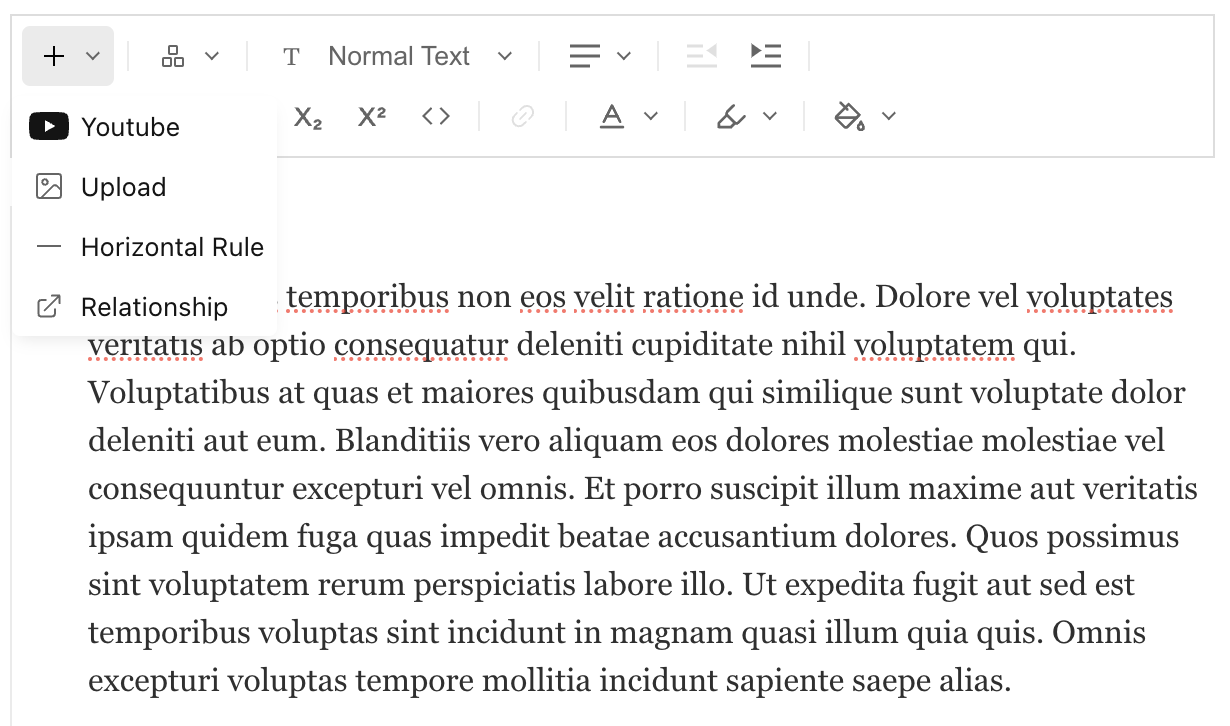
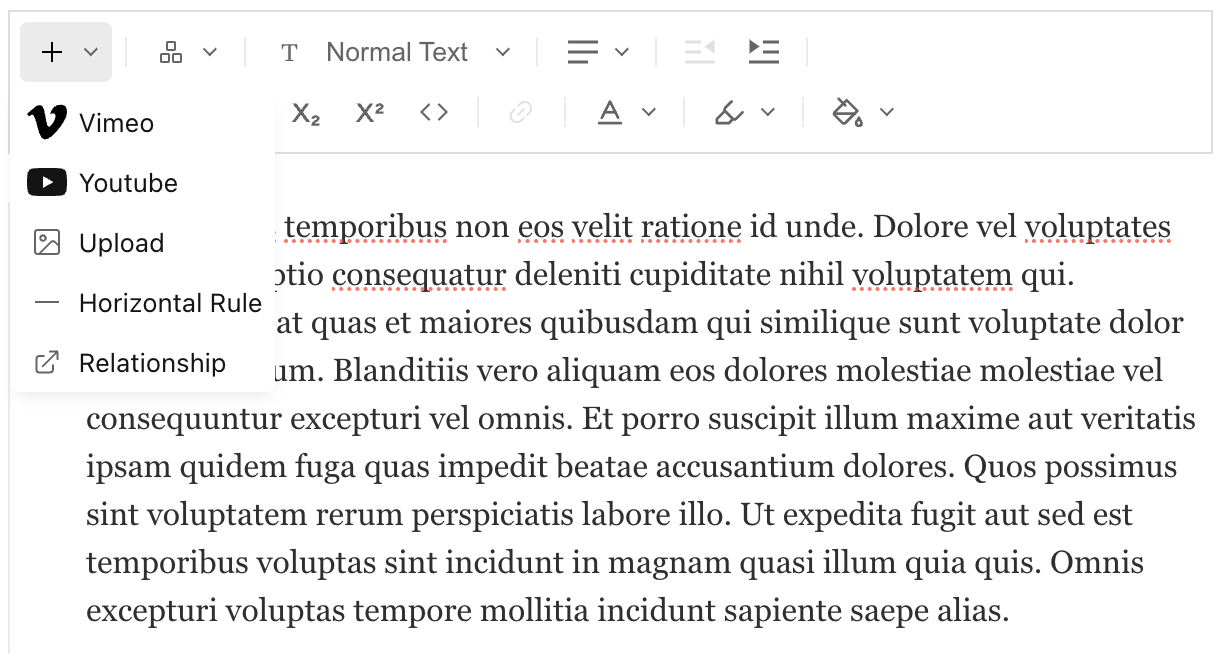
Add vimeo embed feature and simplify new embeds creation

diff --git a/src/embed/nodes/VimeoNode.ts b/src/embed/nodes/VimeoNode.ts
@@ -6,29 +6,29 @@ import type {
 	LexicalNode,
 } from '@payloadcms/richtext-lexical/lexical';
 import { JSX } from 'react';
-import YoutubeComponent from '../components/YoutubeComponent';
+import VimeoComponent from '../components/VimeoComponent';
 import { EmbedNode, SerializedEmbedNode } from './EmbedNode';
 
-export class YouTubeNode extends EmbedNode {
+export class VimeoNode extends EmbedNode {
 	static getType(): string {
-		return 'youtube';
+		return 'vimeo';
 	}
 
 	static clone(node: EmbedNode): EmbedNode {
 		return super.clone(node);
 	}
 
-	static importJSON(serializedNode: SerializedEmbedNode): YouTubeNode {
-		return super.importJSON(serializedNode) as YouTubeNode;
+	static importJSON(serializedNode: SerializedEmbedNode): VimeoNode {
+		return super.importJSON(serializedNode) as VimeoNode;
 	}
 
 	exportDOM(): DOMExportOutput {
 		const element = document.createElement('iframe');
 
 		element.style.aspectRatio = '16/9';
-		element.setAttribute('data-lexical-youtube', this.__id);
+		element.setAttribute('data-lexical-vimeo', this.__id);
 		element.setAttribute('width', '100%');
-		element.setAttribute('src', `https://www.youtube-nocookie.com/embed/${this.__id}`);
+		element.setAttribute('src', `https://player.vimeo.com/video/${this.__id}`);
 		element.setAttribute('frameborder', '0');
 		element.setAttribute(
 			'allow',
@@ -44,11 +44,11 @@ export class YouTubeNode extends EmbedNode {
 			iframe: (domNode: HTMLElement) => {
 				const src = domNode.getAttribute('src') || domNode.getAttribute('data-src')
 
-				const match = src?.match(/youtube(\-nocookie)?\.com\/embed\/([^?]+)/)
+				const match = src?.match(/vimeo\.com\/video\/([^?]+)/)
 
-				if (match && match[2]) {
+				if (match && match[1]) {
 					return {
-						conversion: () => ({ node: $createYouTubeNode(match[2]) }),
+						conversion: () => ({ node: $createVimeoNode(match[2]) }),
 						priority: 1,
 					};
 				}
@@ -59,7 +59,7 @@ export class YouTubeNode extends EmbedNode {
 	}
 
 	getTextContent(): string {
-		return `https://www.youtube.com/watch?v=${this.__id}`;
+		return `https://www.vimeo.com/${this.__id}`;
 	}
 
 	decorate(_editor: LexicalEditor, config: EditorConfig): JSX.Element {
@@ -72,7 +72,7 @@ export class YouTubeNode extends EmbedNode {
 			};
 		}
 
-		return YoutubeComponent({ id: this.__id, className });
+		return VimeoComponent({ id: this.__id, className });
 	}
 
 	exportJSON(): SerializedEmbedNode {
@@ -80,12 +80,12 @@ export class YouTubeNode extends EmbedNode {
 	}
 }
 
-export function $createYouTubeNode(videoID: string): YouTubeNode {
-	return new YouTubeNode(videoID);
+export function $createVimeoNode(videoID: string): VimeoNode {
+	return new VimeoNode(videoID);
 }
 
-export function $isYouTubeNode(
-	node: YouTubeNode | LexicalNode | null | undefined
-): node is YouTubeNode {
-	return node instanceof YouTubeNode;
+export function $isVimeoNode(
+	node: VimeoNode | LexicalNode | null | undefined
+): node is VimeoNode {
+	return node instanceof VimeoNode;
 }

diff --git a/src/embed/features/createPlugin.tsx b/src/embed/features/createPlugin.tsx
@@ -1,0 +1,78 @@
+'use client'
+
+import React, { useEffect, useState } from 'react';
+import { useLexicalComposerContext } from '@lexical/react/LexicalComposerContext';
+import {
+	$getPreviousSelection,
+	$getSelection,
+	$isRangeSelection,
+	$setSelection,
+	BaseSelection,
+	COMMAND_PRIORITY_EDITOR,
+	LexicalCommand
+} from '@payloadcms/richtext-lexical/lexical';
+import { $insertNodeToNearestRoot } from '@payloadcms/richtext-lexical/lexical/utils'
+import { FieldsDrawer } from '@payloadcms/richtext-lexical/client';
+import { useDocumentInfo, useModal } from '@payloadcms/ui';
+import type { PluginComponent } from '@payloadcms/richtext-lexical';
+
+type PluginProps = {
+	command: LexicalCommand<unknown>
+	featureKey: string
+	createNode: Function
+}
+
+export const createPlugin = ({ featureKey, command, createNode }: PluginProps): PluginComponent => {
+	return (): React.JSX.Element => {
+		const [ editor ] = useLexicalComposerContext()
+		const [ selectionState, setSelectionState ] = useState<BaseSelection | null>(null)
+		const { openModal } = useModal()
+		const { collectionSlug } = useDocumentInfo()
+
+		useEffect(() => {
+			return editor.registerCommand(
+				command,
+				() => {
+					editor.read(() => {
+						const selection = $getSelection() ?? $getPreviousSelection()
+						setSelectionState(selection)
+					})
+
+					openModal(featureKey + '-drawer')
+
+					return true;
+				},
+				COMMAND_PRIORITY_EDITOR,
+			)
+		}, [ editor ])
+
+		const onSubmit = (_, data) => {
+			editor.update(() => {
+				selectionState && $setSelection(selectionState.clone())
+
+				if ($isRangeSelection(selectionState)) {
+					const focusNode = selectionState.focus.getNode()
+
+					if (focusNode !== null) {
+						const youTubeNode = createNode(data.id);
+						$insertNodeToNearestRoot(youTubeNode);
+					}
+
+					return true
+				}
+
+				return false;
+			})
+		}
+
+		return (
+			<FieldsDrawer
+				featureKey={ featureKey }
+				drawerSlug={ featureKey + '-drawer' }
+				handleDrawerSubmit={onSubmit}
+				schemaPath={ collectionSlug + '.content' }
+				schemaPathSuffix={ featureKey }
+			/>
+		)
+	}
+}

diff --git a/src/embed/features/vimeo/feature.client.ts b/src/embed/features/vimeo/feature.client.ts
@@ -2,9 +2,9 @@
 
 import { createClientFeature, toolbarAddDropdownGroupWithItems } from '@payloadcms/richtext-lexical/client';
 import { $isNodeSelection } from '@payloadcms/richtext-lexical/lexical'
-import { INSERT_YOUTUBE_EMBED } from './command';
-import { $createYouTubeNode, $isYouTubeNode, YouTubeNode } from '../../nodes/YoutubeNode';
+import { INSERT_VIMEO_EMBED } from './command';
 import Icon from './Icon';
+import { $createVimeoNode, $isVimeoNode, VimeoNode } from 'src/embed/nodes/VimeoNode';
 import { createPlugin } from '../createPlugin';
 
 const groups = toolbarAddDropdownGroupWithItems([
@@ -17,12 +17,12 @@ const groups = toolbarAddDropdownGroupWithItems([
 
 			const firstNode = selection.getNodes()[ 0 ]
 
-			return $isYouTubeNode(firstNode);
+			return $isVimeoNode(firstNode);
 		},
-		key: 'youtube',
-		label: 'Youtube',
+		key: 'vimeo',
+		label: 'Vimeo',
 		onSelect: ({ editor }) => {
-			editor.dispatchCommand(INSERT_YOUTUBE_EMBED, { replace: false })
+			editor.dispatchCommand(INSERT_VIMEO_EMBED, { replace: false })
 		},
 	},
 ])
@@ -31,13 +31,13 @@ export default createClientFeature(() => {
 	return {
 		plugins: [{
 			Component: createPlugin({
-				featureKey: 'youtube',
-				command: INSERT_YOUTUBE_EMBED,
-				createNode: $createYouTubeNode
+				featureKey: 'vimeo',
+				command: INSERT_VIMEO_EMBED,
+				createNode: $createVimeoNode
 			}),
 			position: 'normal',
 		}],
-		nodes: [ YouTubeNode ],
+		nodes: [ VimeoNode ],
 		toolbarFixed: {
 			groups: [ groups ],
 		},

diff --git a/src/embed/features/vimeo/feature.server.ts b/src/embed/features/vimeo/feature.server.ts
@@ -1,19 +1,19 @@
 import { createNode } from '@payloadcms/richtext-lexical';
-import { YouTubeNode } from '../../nodes/YoutubeNode';
+import { VimeoNode } from '../../nodes/VimeoNode';
 import { createEmbedServerFeature } from '../createServerEmbed';
 
-export const YoutubeFeature = createEmbedServerFeature({
-	ClientFeature: 'payloadcms-lexical-ext/client#YoutubeFeatureClient',
+export const VimeoFeature = createEmbedServerFeature({
+	ClientFeature: 'payloadcms-lexical-ext/client#VimeoFeatureClient',
 	node: createNode({
-		node: YouTubeNode,
+		node: VimeoNode,
 		converters: {
 			html: {
-				nodeTypes: [ YouTubeNode.getType() ],
+				nodeTypes: [ VimeoNode.getType() ],
 				async converter({ node }) {
 					return `
 						<div>
 							<iframe
-								src="https://www.youtube-nocookie.com/embed/${node.id}?modestbranding=1&rel=0&hl=es"
+								src="https://player.vimeo.com/video/${node.id}"
 								width="100%"
 								style="aspect-ratio: 16/9"
 								allow="accelerometer; autoplay; clipboard-write; encrypted-media; gyroscope; picture-in-picture"
@@ -25,5 +25,5 @@ export const YoutubeFeature = createEmbedServerFeature({
 			}
 		},
 	}),
-	key: 'youtube',
+	key: 'vimeo',
 })

diff --git a/src/embed/nodes/EmbedNode.ts b/src/embed/nodes/EmbedNode.ts
@@ -1,0 +1,52 @@
+import {
+	DecoratorBlockNode,
+	type SerializedDecoratorBlockNode,
+} from '@payloadcms/richtext-lexical/lexical/react/LexicalDecoratorBlockNode';
+
+import type {
+	ElementFormatType,
+	NodeKey,
+	Spread,
+} from '@payloadcms/richtext-lexical/lexical';
+
+export type SerializedEmbedNode = Spread<{
+	id: string;
+}, SerializedDecoratorBlockNode>;
+
+export class EmbedNode extends DecoratorBlockNode {
+	__id: string;
+
+	static getType(): string {
+		return 'embed';
+	}
+
+	static clone(node: EmbedNode): EmbedNode {
+		return new this(node.__id, node.__format, node.__key);
+	}
+
+	static importJSON(serializedNode: SerializedEmbedNode): EmbedNode {
+		const node = new this(serializedNode.id);
+
+		node.setFormat(serializedNode.format);
+
+		return node;
+	}
+
+	constructor(id: string, format?: ElementFormatType, key?: NodeKey) {
+		super(format, key);
+		this.__id = id;
+	}
+
+	getId(): string {
+		return this.__id;
+	}
+
+	exportJSON(): SerializedEmbedNode {
+		return {
+			...super.exportJSON(),
+			type: this.getType(),
+			version: 1,
+			id: this.__id,
+		};
+	}
+}

diff --git a/src/embed/features/vimeo/Icon.tsx b/src/embed/features/vimeo/Icon.tsx
@@ -1,0 +1,10 @@
+import React from 'react'
+
+export default (): React.JSX.Element => {
+	return (
+		<svg role="img" xmlns="http://www.w3.org/2000/svg" viewBox="0 0 448 512">
+			{/* <!--!Font Awesome Free 6.7.2 by @fontawesome - https://fontawesome.com License - https://fontawesome.com/license/free Copyright 2024 Fonticons, Inc.--> */}
+			<path d="M447.8 153.6c-2 43.6-32.4 103.3-91.4 179.1-60.9 79.2-112.4 118.8-154.6 118.8-26.1 0-48.2-24.1-66.3-72.3C100.3 250 85.3 174.3 56.2 174.3c-3.4 0-15.1 7.1-35.2 21.1L0 168.2c51.6-45.3 100.9-95.7 131.8-98.5 34.9-3.4 56.3 20.5 64.4 71.5 28.7 181.5 41.4 208.9 93.6 126.7 18.7-29.6 28.8-52.1 30.2-67.6 4.8-45.9-35.8-42.8-63.3-31 22-72.1 64.1-107.1 126.2-105.1 45.8 1.2 67.5 31.1 64.9 89.4z"/>
+		</svg>
+	)
+}

diff --git a/src/embed/components/VimeoComponent.tsx b/src/embed/components/VimeoComponent.tsx
@@ -3,16 +3,14 @@ import { EmbedComponentProps } from '../types';
 
 export default function({
 	id,
-	className
 }: EmbedComponentProps): React.JSX.Element {
 	return (
 		<div>
 			<iframe
 				width="100%"
-				src={`https://www.youtube-nocookie.com/embed/${id}?modestbranding=1&rel=0&hl=es`}
+				src={`https://player.vimeo.com/video/${id}`}
 				allow = "accelerometer; autoplay; clipboard-write; encrypted-media; gyroscope; picture-in-picture"
 				allowFullScreen
-				className={className}
 				title = "Play video"
 				style = {{ aspectRatio: '16/9' }}
 			/>

diff --git a/src/embed/features/createServerEmbed.ts b/src/embed/features/createServerEmbed.ts
@@ -1,0 +1,25 @@
+import { createServerFeature } from '@payloadcms/richtext-lexical';
+
+export const createEmbedServerFeature = ({ key, ClientFeature, node }) => createServerFeature({
+	feature() {
+		return {
+			ClientFeature,
+			generateSchemaMap: () => {
+				const map = new Map()
+
+				map.set(key, {
+					fields: [{
+						name: 'id',
+						type: 'text',
+						label: 'Embed ID',
+						required: true
+					}]
+				})
+
+				return map
+			},
+			nodes: [ node ]
+		}
+	},
+	key,
+})

diff --git a/client.ts b/client.ts
@@ -4,3 +4,4 @@ export { default as BgColorFeatureClient } from './src/color/features/bgColor/fe
 export { default as TextColorFeatureClient } from './src/color/features/textColor/feature.client';
 export { default as HighlightColorFeatureClient } from './src/color/features/highlightColor/feature.client';
 export { default as YoutubeFeatureClient } from './src/embed/features/youtube/feature.client';
+export { default as VimeoFeatureClient } from './src/embed/features/vimeo/feature.client';

diff --git a/index.ts b/index.ts
@@ -2,5 +2,6 @@ export { BgColorFeature } from './src/color/features/bgColor/feature.server';
 export { TextColorFeature } from './src/color/features/textColor/feature.server';
 export { HighlightColorFeature } from './src/color/features/highlightColor/feature.server';
 export { YoutubeFeature } from './src/embed/features/youtube/feature.server';
+export { VimeoFeature } from './src/embed/features/vimeo/feature.server';
 
 export type { ColorFeatureProps, Color } from './src/color/types';

diff --git a/src/embed/features/vimeo/command.ts b/src/embed/features/vimeo/command.ts
@@ -1,0 +1,3 @@
+import { createCommand, type LexicalCommand } from '@payloadcms/richtext-lexical/lexical';
+
+export const INSERT_VIMEO_EMBED: LexicalCommand<{ replace: boolean }> = createCommand('INSERT_VIMEO_EMBED');

diff --git a/build.js b/build.js
@@ -9,6 +9,7 @@ async function build(args) {
 		platform: 'browser',
 		format: 'esm',
 		splitting: true,
+		target: 'esnext',
 		external: [
 			'@payloadcms/*',
 			'@payloadcms/ui',
